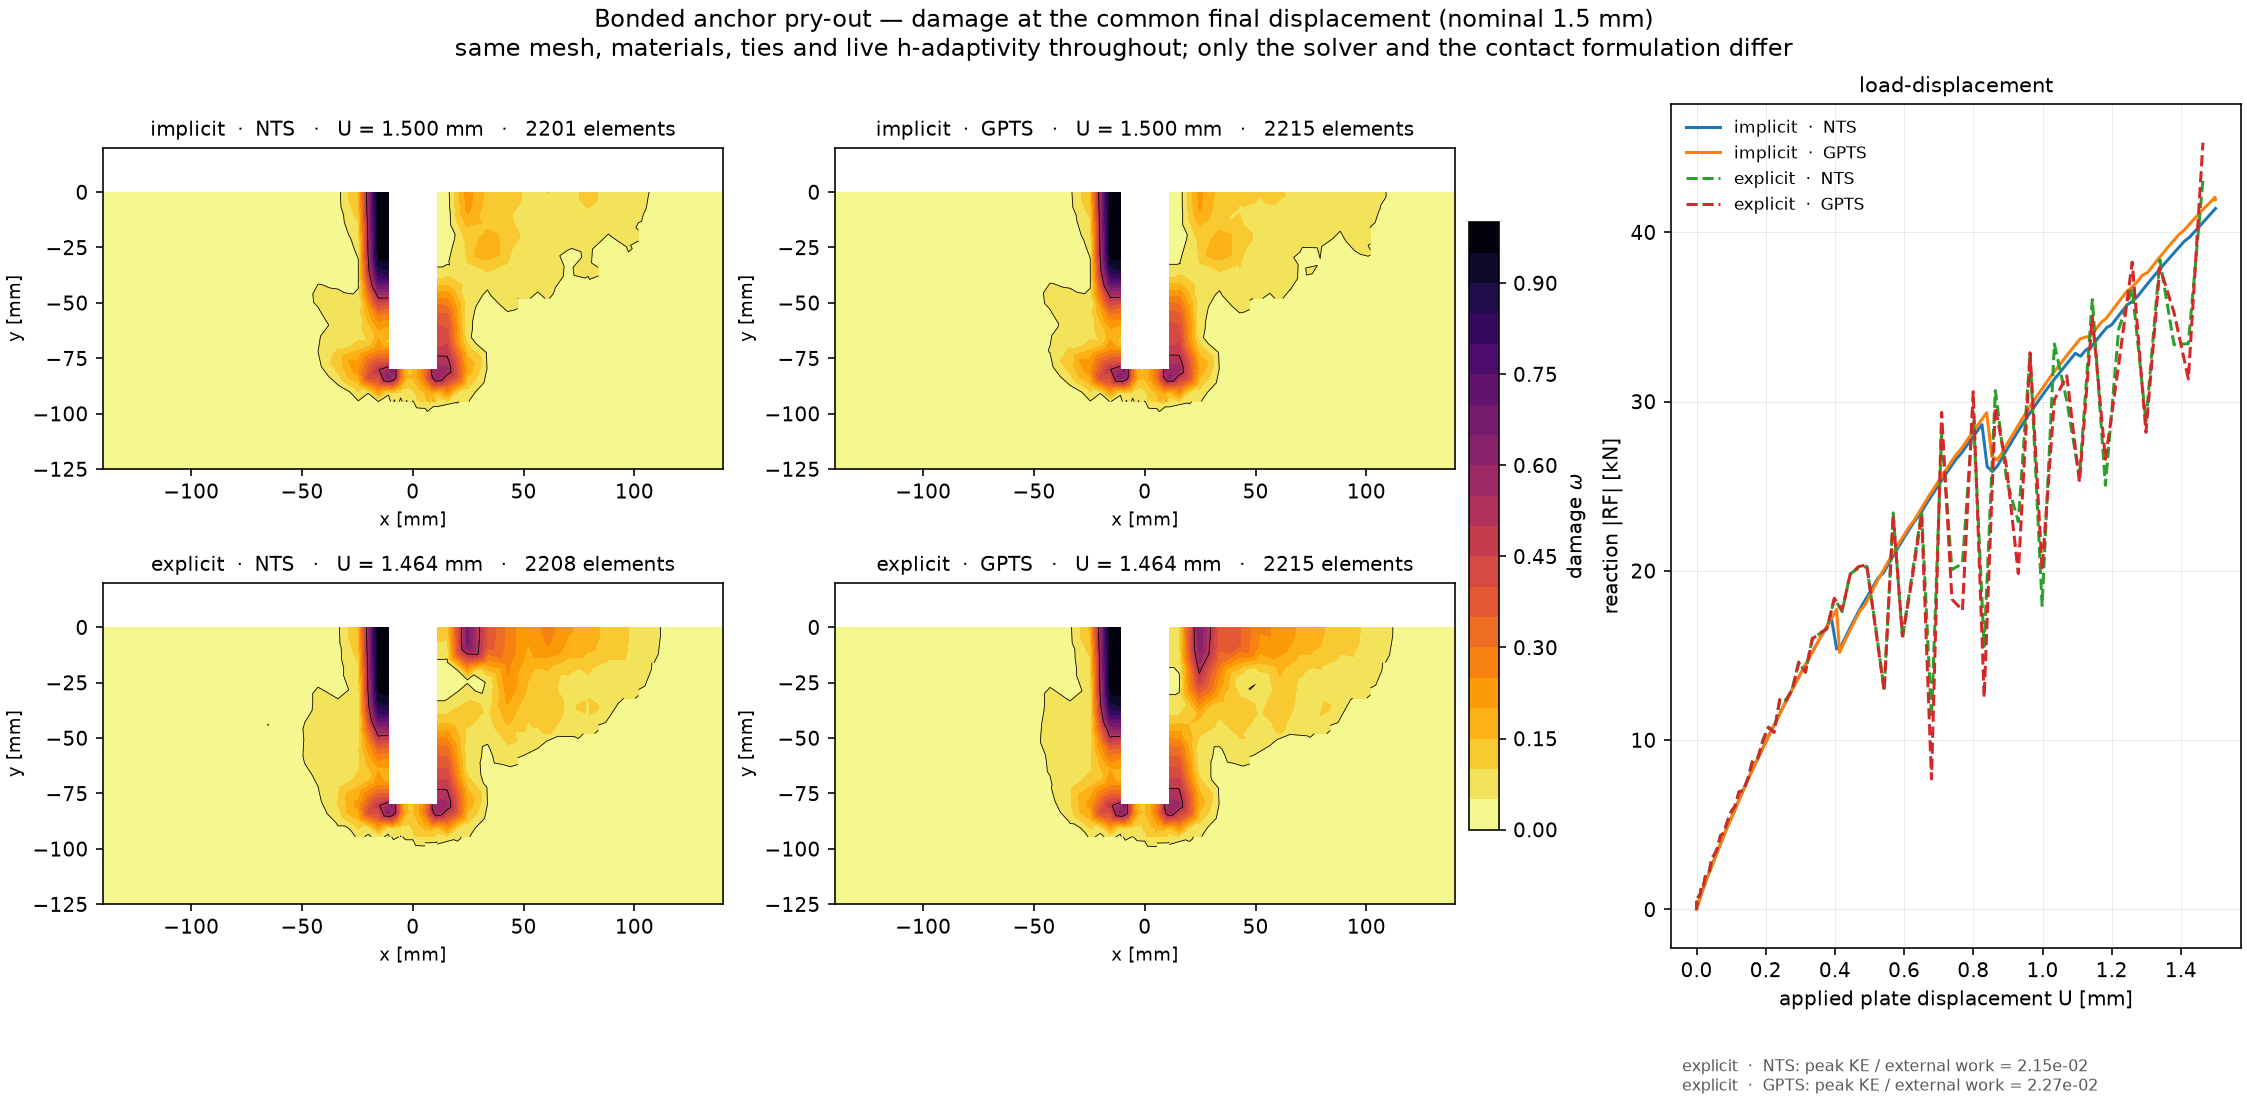
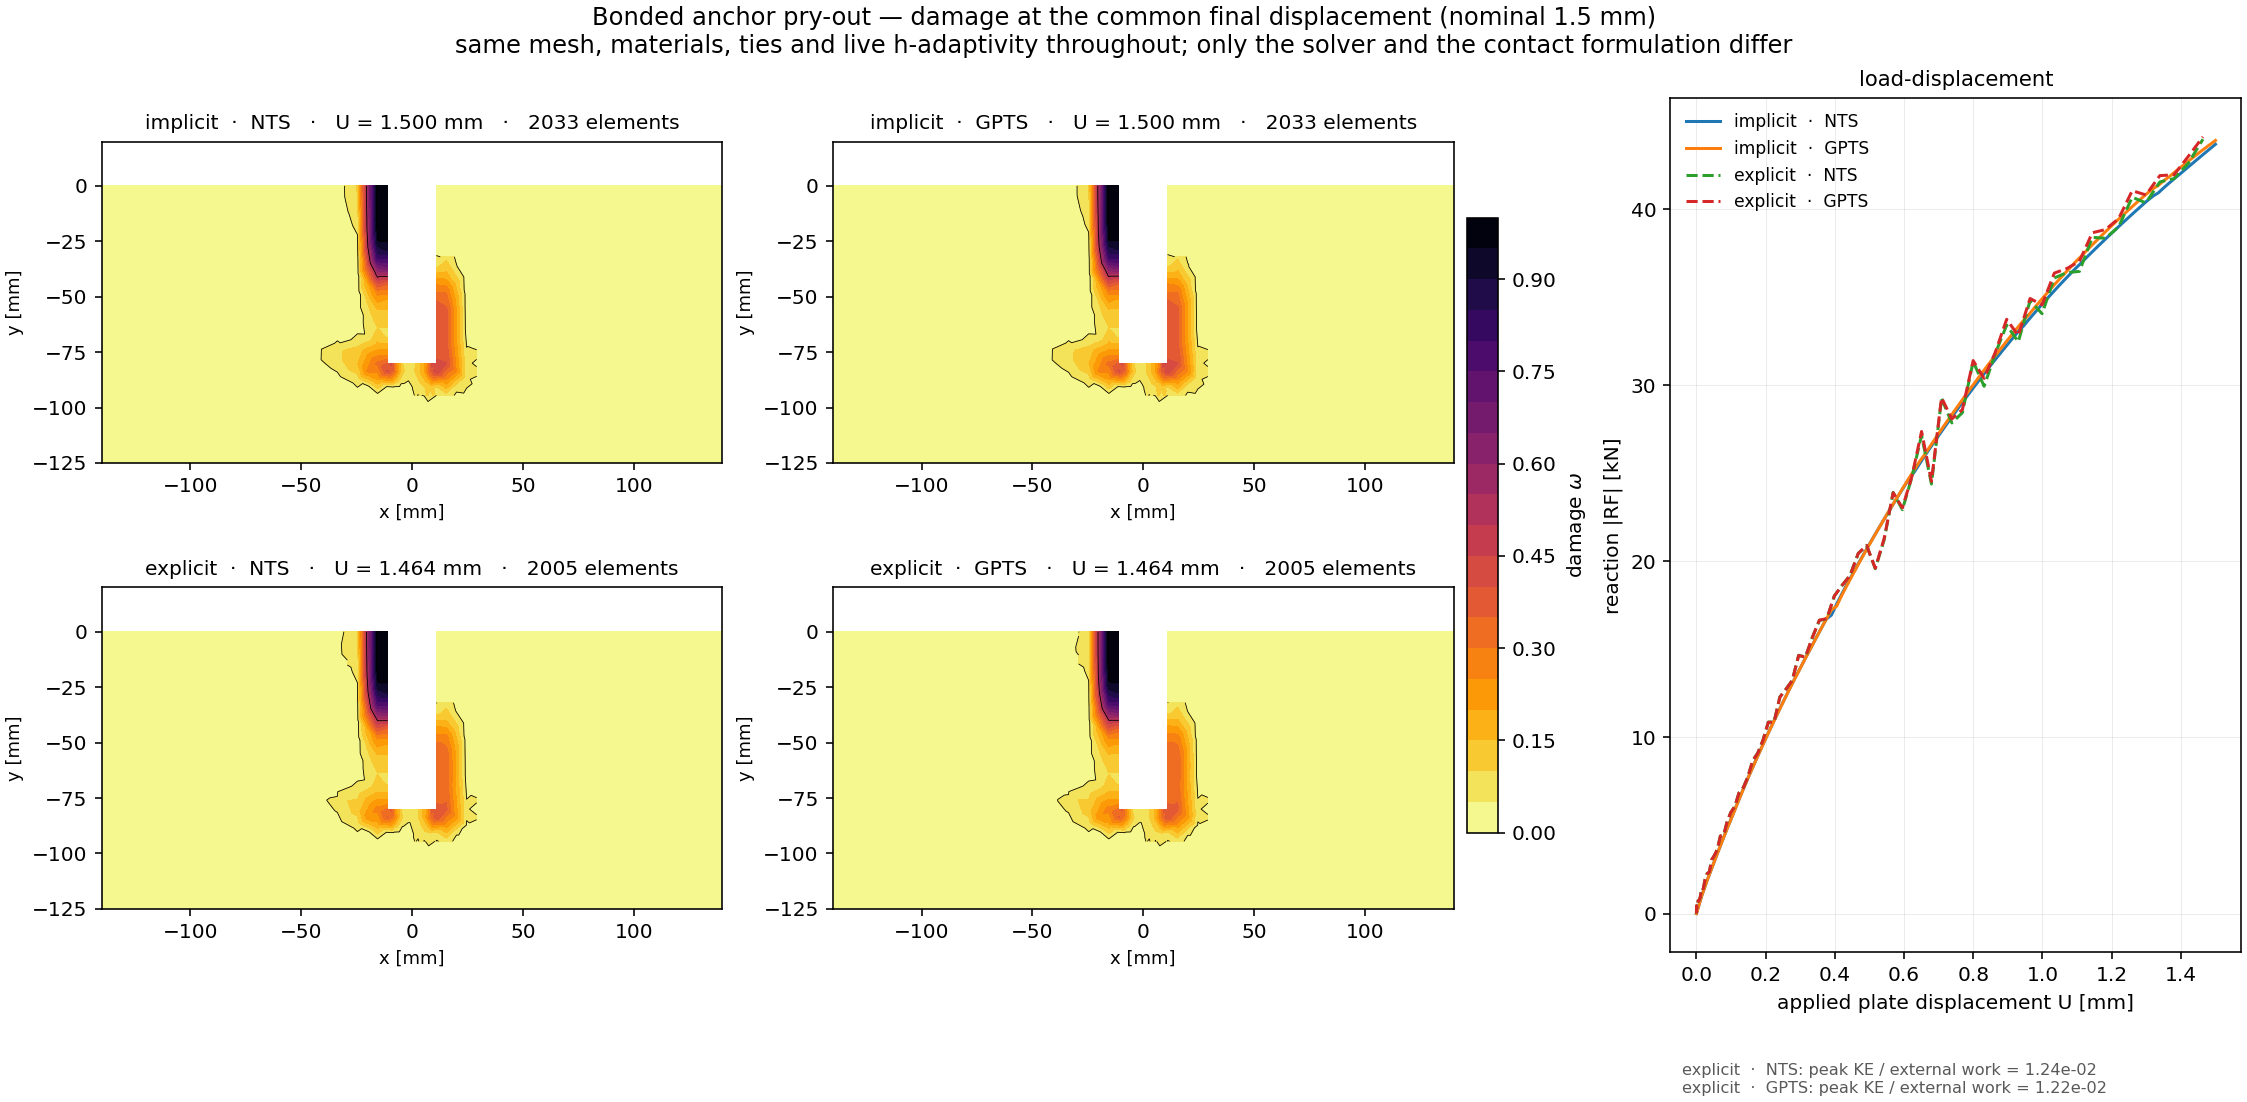
docs(examples): regenerate the coarse pry-out figure under the production settings
The figure now shows the four runs from d16c8000 at the common final
displacement. The plot script uses np.trapezoid directly (NumPy >= 2),
without a hasattr fallback.

diff --git a/examples/AnchorPryOutCoarse/plot_damage_comparison.py b/examples/AnchorPryOutCoarse/plot_damage_comparison.py
@@ -108,7 +108,7 @@ def quasiStaticity(runDir):
     if not kinetic:
         return None
     _, u, rf, _ = history(runDir)
-    work = abs(np.trapezoid(rf, u)) if hasattr(np, "trapezoid") else abs(np.trapz(rf, u))
+    work = abs(np.trapezoid(rf, u))
     return max(kinetic) / work if work > 0 else None
 
 

diff --git a/examples/AnchorPryOutCoarse/README.md b/examples/AnchorPryOutCoarse/README.md
@@ -96,8 +96,7 @@ displacement and reports the kinetic energy as a fraction of that external work.
 
 **On this example that ratio ends at ~1.2 %** (kinetic energy against external work, as the
 solver reports it at the last output), and the explicit final reaction lies within 1 % of the
-implicit one. The figure in `figures/` predates the production settings (bulk viscosity, von Mises
-steel, penalty 1e4) and still shows the undamped ringing of the earlier setup. If you need a smooth
+implicit one; its remaining oscillation about the implicit curve is visible in the figure above. If you need a smooth
 reaction history rather than a correct mean, reduce the mass scaling and lengthen the ramp, at a
 proportional cost in increments. That trade-off, not the fact that the run completed, is what says
 whether an explicit result is usable as a static one.
